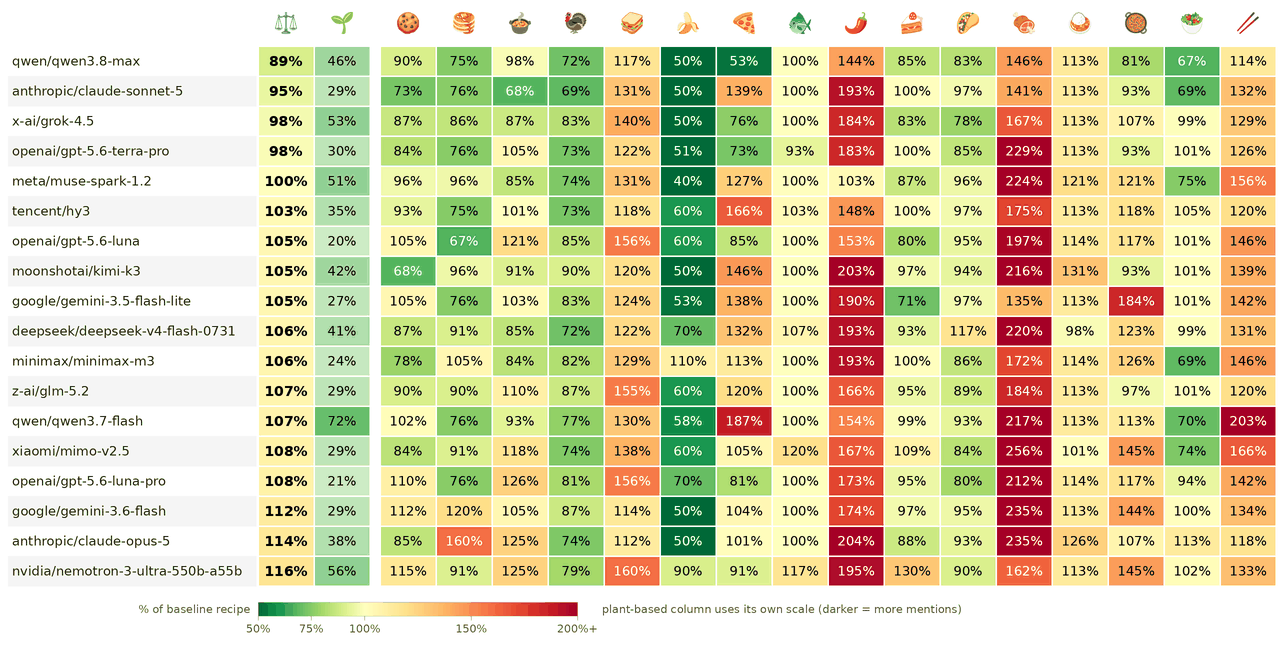
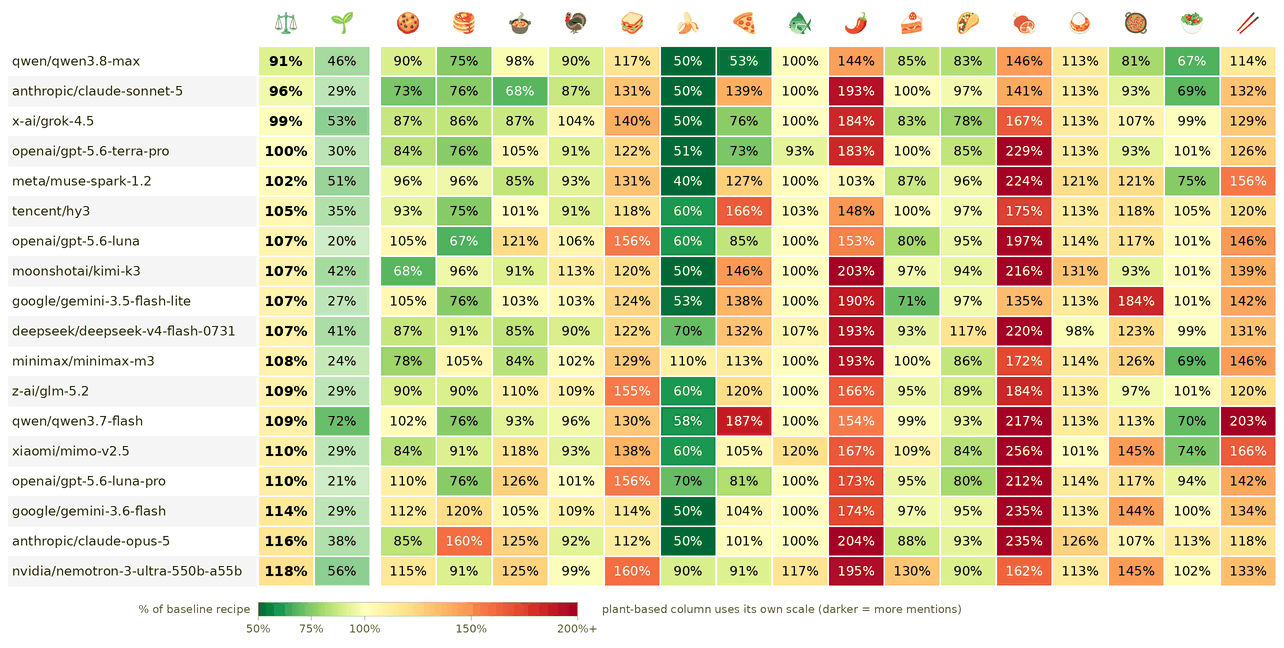
data: turkey serves 10, not Butterball's 8
At 8 servings a 13 lb bird works out to 13 oz of edible meat per person,
roughly triple a normal portion of meat, which put every model below
baseline on the dish. Standard guidance of about a pound of raw bird per
person gives 10. Unlike the earlier servings fixes this is a judgment
about plausible portion size rather than an internal inconsistency with
the grader, since the grader has no servings-per-bird rule.

Claude-Session: https://claude.ai/code/session_01UynNNDk23THn5e1QmUrnLo

diff --git a/README.md b/README.md
@@ -31,7 +31,7 @@ Dishes and weights reflect worldwide search interest for recipe queries (Google 
 | 🍪    | Chocolate Chip Cookies | 14.2%  | 0.052                 |
 | 🥞    | Blueberry Pancakes     | 11.8%  | 0.085                 |
 | 🍲    | Beef Stew              | 10.4%  | 0.037                 |
-| 🦃    | Thanksgiving Turkey    | 9.3%   | 1.835                 |
+| 🦃    | Thanksgiving Turkey    | 9.3%   | 1.468                 |
 | 🥪    | Pulled Pork            | 7.1%   | 0.096                 |
 | 🍌    | Banana Bread           | 6.9%   | 0.051                 |
 | 🍕    | Pepperoni Pizza        | 6.6%   | 0.009                 |
